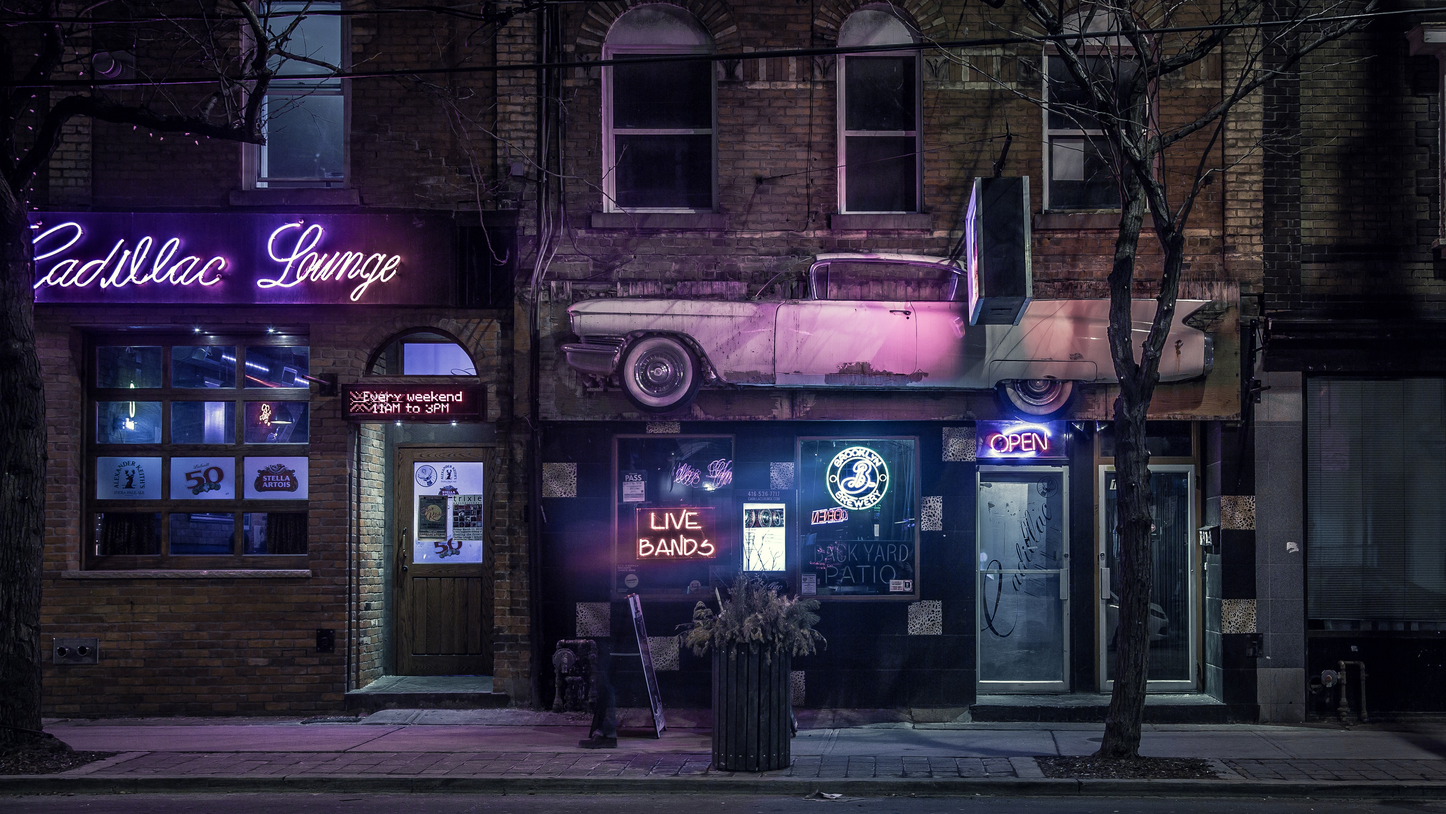
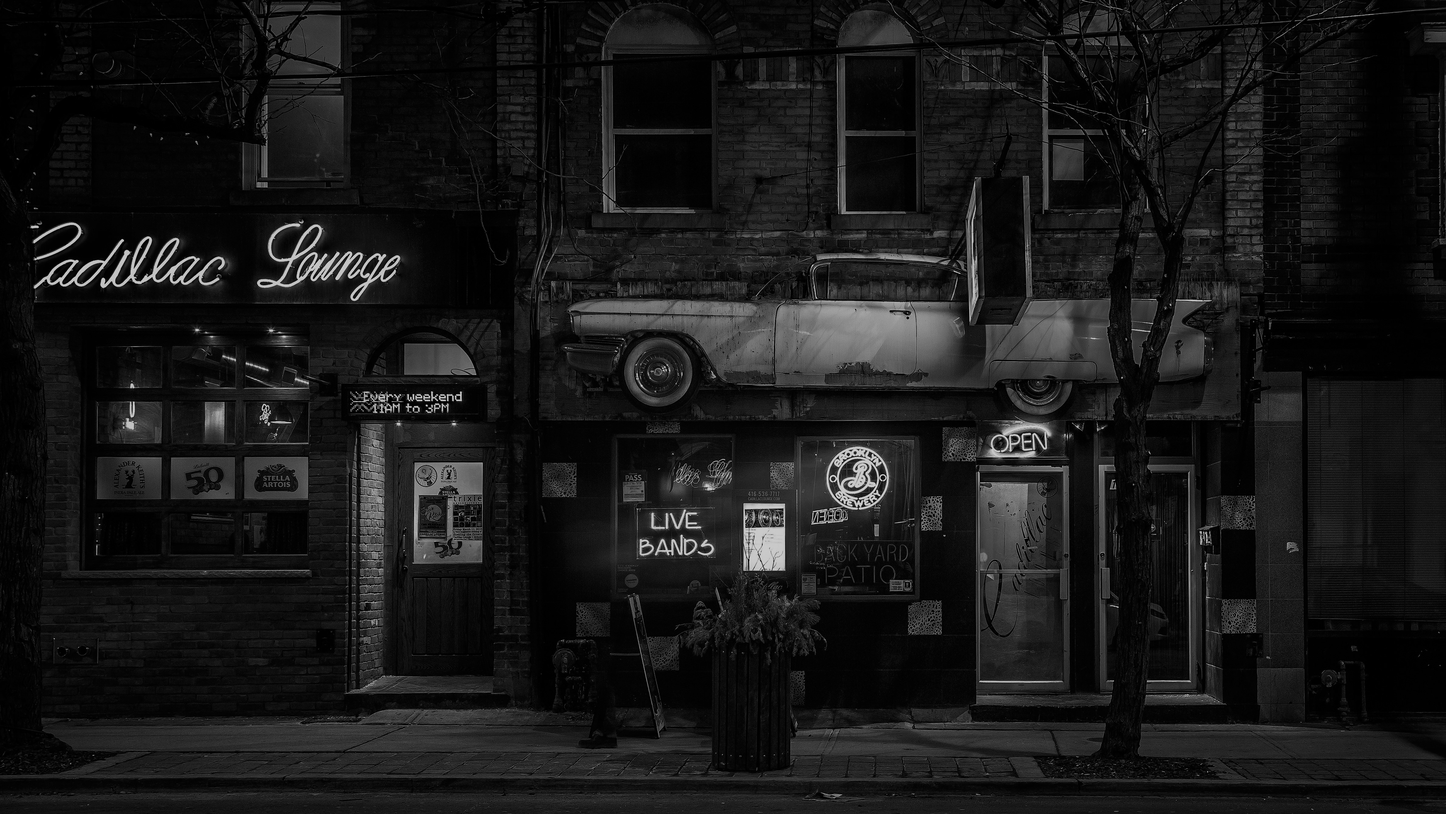
added contact section with contact form and change some images

diff --git a/index.html b/index.html
@@ -9,11 +9,11 @@
   <link href="https://fonts.googleapis.com/icon?family=Material+Icons" rel="stylesheet">
   <!-- Compiled and minified CSS -->
   <link rel="stylesheet" href="https://cdnjs.cloudflare.com/ajax/libs/materialize/1.0.0-beta/css/materialize.min.css">
-  <title>Photo Ninja</title>
+  <title>Photo Dude</title>
 
   <style>
     header {
-      background: url(img/man.jpg);
+      background: url(img/blur-camera.jpg);
       background-size: cover;
       background-position: center;
       min-height: 95vh;
@@ -25,7 +25,11 @@
   }
 
   .tabs .indicator {
-    background-color: #1a237e;
+    background-color: #000;
+  }
+
+  .parallax-container {
+    height: 50vh;
   }
 
   .tabs .tab a:focus, .tabs .tab a:focus.active {
@@ -44,9 +48,9 @@
   <!-- navbar -->
   <header>
     <div class="navbar-fixed">
-      <nav class="nav-wrapper indigo darken-2 z-depth-2">
+      <nav class="nav-wrapper black z-depth-2">
         <div class="container">
-          <a href="#" class="brand-logo">Photo Ninja</a>
+          <a href="#" class="brand-logo">Photo Dude</a>
           <a href="#" class="sidenav-trigger" data-target="mobile-menu">
             <i class="material-icons">menu</i>
           </a>
@@ -75,7 +79,7 @@
         <img src="img/portrait.jpg" alt="" class="responsive-img materialboxed">
       </div>
       <div class="col s12 l6 offset-l1">
-        <h2 class="indigo-text text-darken-4">Potraits</h2>
+        <h2 class="">Potraits</h2>
         <p>Lorem ipsum dolor sit amet consectetur adipisicing elit. Quod, officia omnis saepe dolorum aspernatur assumenda! Non optio eos enim, accusantium placeat repudiandae totam natus iusto eveniet doloribus, eius vero debitis?</p>
       </div>
     </div>
@@ -84,7 +88,7 @@
         <img src="img/city.jpg" alt="" class="responsive-img materialboxed">
       </div>
       <div class="col s12 l6 pull-l5 right-align offset-l1">
-        <h2 class="indigo-text text-darken-4">CityScapes</h2>
+        <h2 class="">CityScapes</h2>
         <p>Lorem ipsum dolor sit amet consectetur adipisicing elit. Quod, officia omnis saepe dolorum aspernatur assumenda! Non optio eos enim, accusantium placeat repudiandae totam natus iusto eveniet doloribus, eius vero debitis?</p>
       </div>
     </div>
@@ -93,7 +97,7 @@
         <img src="img/nature.jpg" alt="" class="responsive-img materialboxed" />
       </div>
       <div class="col s12 l6 offset-l1">
-        <h2 class="indigo-text text-darken-4">Nature</h2>
+        <h2 class="">Nature</h2>
         <p>Lorem ipsum dolor sit amet consectetur adipisicing elit. Quod, officia omnis saepe dolorum aspernatur assumenda! Non optio eos enim, accusantium placeat repudiandae totam natus iusto eveniet doloribus, eius vero debitis?</p>
       </div>
     </div>
@@ -108,24 +112,24 @@
 <section class="container section" id="services">
   <div class="row">
     <div class="col s12 l4">
-      <h2 class="indigo-text text-darken-4">What I do...</h2>
+      <h2 class="">What I do...</h2>
       <p>Lorem, ipsum dolor sit amet consectetur adipisicing elit. Eaque officia, vitae, beatae suscipit dolor possimus autem est minus amet corporis aperiam placeat, aspernatur quod. Aspernatur eius facilis ipsum iste animi?</p>
     </div>
     <div class="col s12 l6 offset-l2">
       <ul class="tabs">
         <li class="tab col s6">
-          <a href="#photography" class="indigo-text text-darken-4">Photography</a>
+          <a href="#photography" class="black-text">Photography</a>
         </li>
         <li class="tab col s6">
-          <a href="#videography" class="indigo-text text-darken-4">Videography</a>
+          <a href="#videography" class="black-text">Videography</a>
         </li>
       </ul> 
       <div class="col s12" id="photography">
-        <p class="flow-text indigo-text text-darken-4">PHOTOGRAPHY</p>
+        <p class="flow-text">PHOTOGRAPHY</p>
         <p>Lorem ipsum dolor sit amet consectetur adipisicing elit. Autem dolorum quae quas dolorem maiores excepturi, architecto optio ex a ducimus eum quasi natus ipsum? Distinctio enim sint accusantium? Error, aperiam!</p>
       </div>
       <div class="col s12" id="videography">
-        <p class="flow-text indigo-text text-darken-4">VIDEOGRAPHY</p>
+        <p class="flow-text">VIDEOGRAPHY</p>
         <p>Lorem ipsum dolor sit amet consectetur adipisicing elit. Autem dolorum quae quas dolorem maiores excepturi, architecto optio ex a ducimus eum quasi natus ipsum? Distinctio enim sint accusantium? Error, aperiam!</p>
       </div>
     </div>
@@ -138,7 +142,29 @@
     </div>
   </div>
   <!-- contact form -->
-
+  <section class="container section" id="contact">
+    <div class="row">
+      <div class="col s12 l5">
+        <h2 class="black-text">Get In Touch</h2>
+        <p>Lorem ipsum dolor sit amet consectetur, adipisicing elit. Numquam doloribus corrupti nemo maxime vero quae totam aliquam aliquid atque! Voluptate ducimus maxime ab illo, facere expedita quis iste tempore exercitationem!</p>
+        <p>Lorem ipsum dolor sit amet consectetur, adipisicing elit. Numquam doloribus corrupti nemo maxime vero quae totam aliquam aliquid atque! Voluptate ducimus maxime ab illo, facere expedita quis iste tempore exercitationem!</p>
+      </div>
+      <div class="col s12 l5 offset-l2">
+        <form action="">
+          <div class="input-field">
+            <i class="material-icons prefix">email</i>
+            <input type="email" id="email" />
+            <label for="email">Your Email</label>
+          </div>
+          <div class="input-field">
+            <i class="material-icons prefix">message</i>
+            <textarea id="message" class="materialize-textarea" cols="30" rows="10"></textarea>
+            <label for="message">Your Message</label>
+          </div>
+        </form>
+      </div>
+    </div>
+  </section>
   <!-- footer -->
 
   <!-- Compiled and minified JavaScript -->
